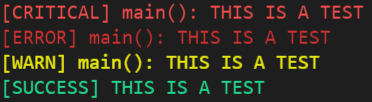
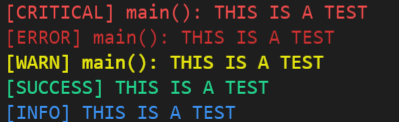
Force verbose mod

diff --git a/pyostra/logger.py b/pyostra/logger.py
@@ -147,7 +147,8 @@ def pyprint(
     log_type: dict,
     log_msg: Any,
     disable_function_name: bool = False,
-    on_same_line: bool = False
+    on_same_line: bool = False,
+    force_verbose: bool = False
 ):
     '''Pyostra formatted print statements.
     
@@ -174,10 +175,15 @@ def pyprint(
         disable_function_name (bool, optional): Allows to specifically disable the printing
             of the caller's name for errors & warnings.
         on_same_line (bool, optional): Print on the same line as before.
+        force_verbose (bool, optional): Force the log inside the terminal,
+            not depending on the log type when verbose debugging is turned off.
     '''
     
-    # Verbose debugging or forced log type
-    if __Settings.VERBOSE_DEBUGGING or (not __Settings.VERBOSE_DEBUGGING and log_type in __Settings.FORCED_TYPES):
+    # Verbose debugging, forced log type or forced verbose
+    if (__Settings.VERBOSE_DEBUGGING
+        or (not __Settings.VERBOSE_DEBUGGING and log_type in __Settings.FORCED_TYPES)
+        or force_verbose
+    ):
         # Validate the log_type dict
         if type(log_type) == dict:
             if set(('longName', 'shortName', 'typeColor', 'msgColor')) <= log_type.keys():
